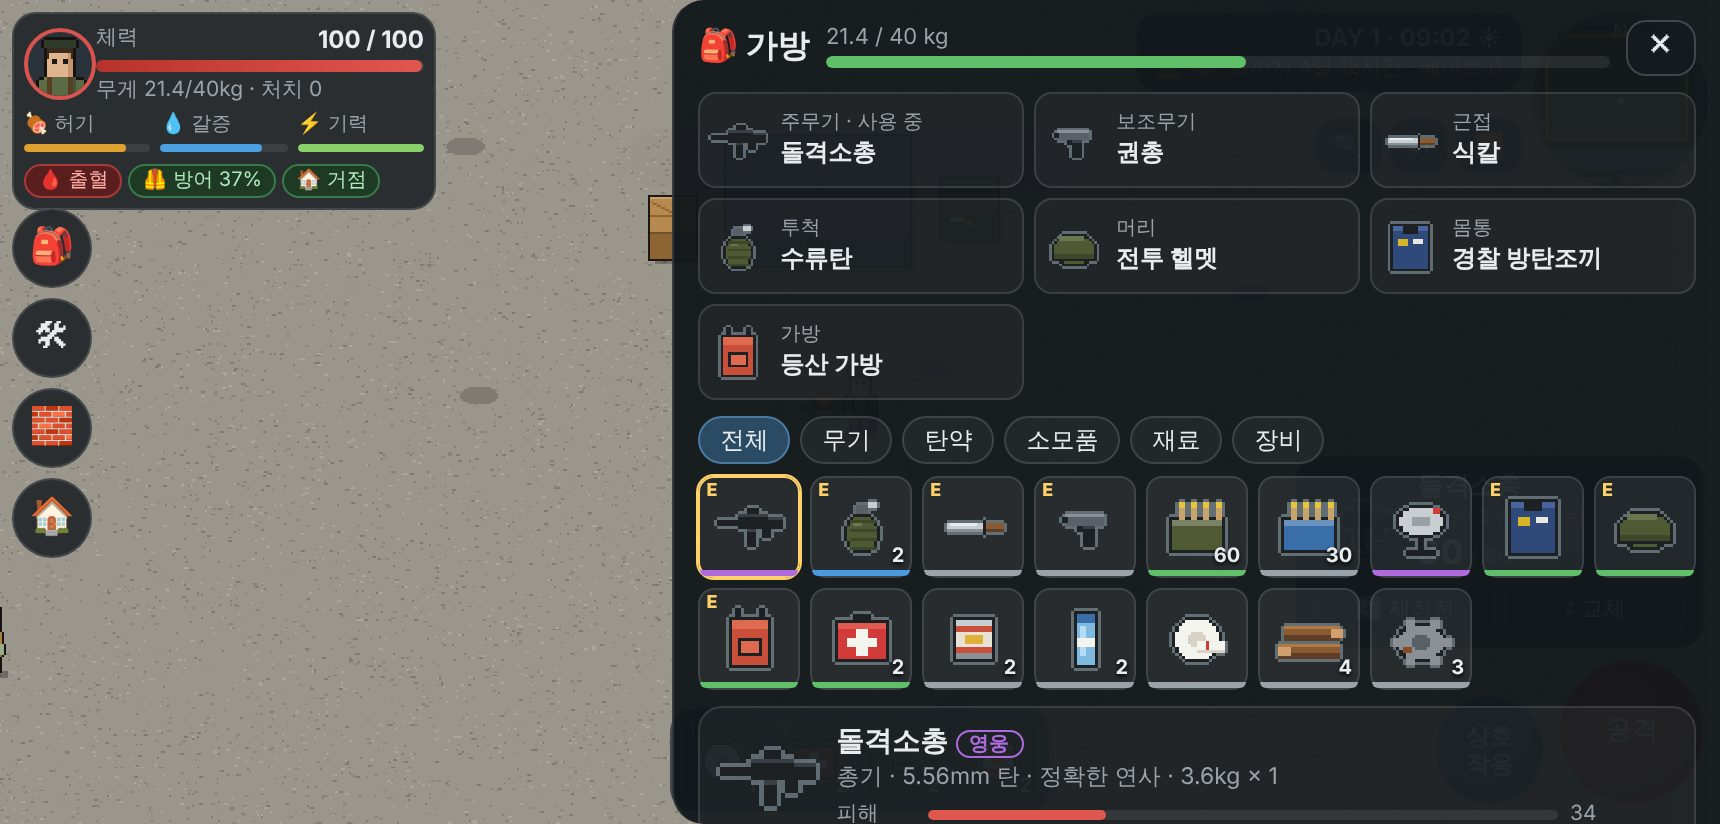
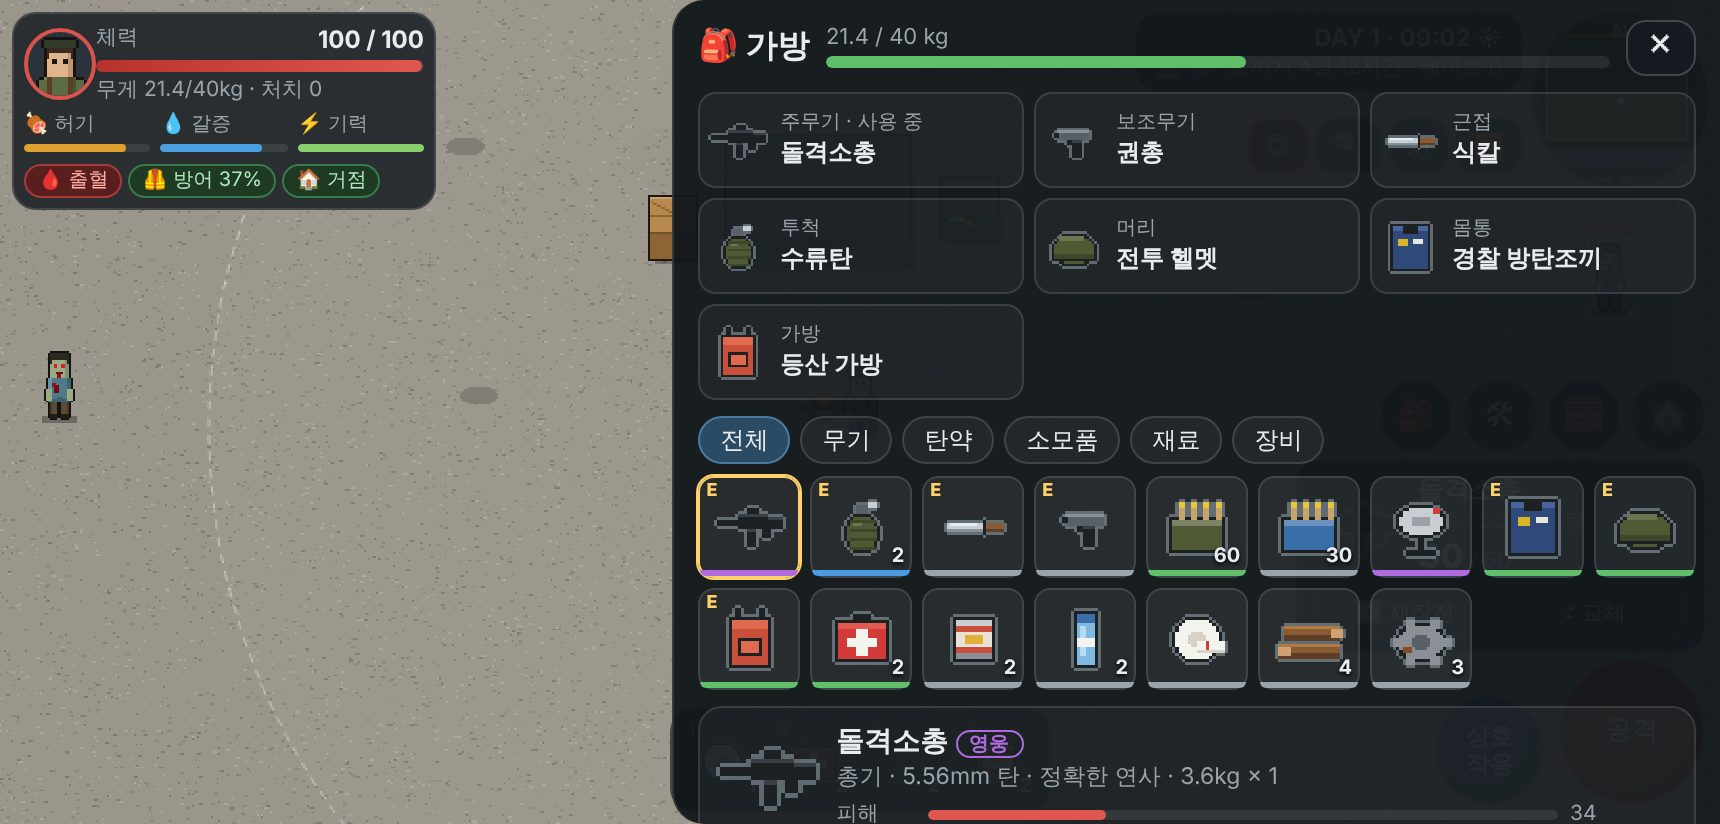
Move the toolbar (bag, craft, barricade, base) above the weapon card
Claude-Session: https://claude.ai/code/session_016VCq735jNXUkDd6pcyUyiK

Changed region(s): [[0.0, 0.2427, 0.0616, 0.6978]]

diff --git a/index.html b/index.html
@@ -17,15 +17,15 @@ canvas#c{position:fixed;inset:0;width:100%;height:100%}
 #top{display:flex;gap:4px}#top button{padding:5px 8px;font-size:12px}#rng.on{background:#4a2a24;border-color:#ff6a5a88}
 button{font:inherit;color:var(--fg);background:var(--pn);border:1px solid #fff3;border-radius:10px;padding:8px 10px}
 button:disabled{opacity:.45}
-#sd{position:fixed;left:6px;bottom:calc(env(safe-area-inset-bottom,0px) + 150px);display:flex;flex-direction:column;gap:7px}.rb{width:44px;height:44px;border-radius:50%;padding:0;font-size:20px;display:grid;place-items:center}
-#wc{position:fixed;right:8px;bottom:calc(env(safe-area-inset-bottom,0px) + 96px);width:min(48vw,196px);padding:6px 8px;display:grid;grid-template-columns:44px 1fr;gap:3px 8px;align-items:center}
+#rc{position:fixed;right:8px;bottom:calc(env(safe-area-inset-bottom,0px) + 96px);display:flex;flex-direction:column;align-items:flex-end;gap:6px}#sd{display:flex;flex-direction:row;gap:6px}.rb{width:44px;height:44px;border-radius:50%;padding:0;font-size:20px;display:grid;place-items:center}
+#wc{width:min(48vw,196px);padding:6px 8px;display:grid;grid-template-columns:44px 1fr;gap:3px 8px;align-items:center}
 #wc .wi{width:44px;height:44px;image-rendering:pixelated;grid-row:1;font-size:28px;text-align:center;line-height:44px}#wc .wn{font-weight:700;font-size:13px}#wc .wr{font-size:10.5px}#wc .am{font-size:17px;font-weight:800}#wc .am small{font-size:11px;color:var(--mut);font-weight:500}
 #wc .wb{grid-column:1/3;display:flex;gap:4px}#wc .wb span{flex:1;text-align:center;font-size:11px;padding:4px;border-radius:8px;background:#ffffff10;border:1px solid #ffffff22}
 #qk{position:fixed;left:6px;bottom:calc(env(safe-area-inset-bottom,0px) + 8px);display:flex;gap:4px;padding:4px}
 .qs{width:40px;height:40px;border-radius:9px;background:#ffffff0e;border:1px solid #ffffff22;position:relative;display:grid;place-items:center}.qs img{width:30px;height:30px;image-rendering:pixelated}.qs.off img{opacity:.3}.qs .k{position:absolute;left:3px;top:0;font-size:9px;color:var(--mut)}.qs .c{position:absolute;right:3px;bottom:0;font-size:10px;font-weight:700}
 #r{position:fixed;right:8px;bottom:calc(env(safe-area-inset-bottom,0px) + 10px);display:flex;gap:8px;align-items:flex-end}
 .big{width:74px;height:74px;border-radius:50%;font-weight:700;padding:0}#atk{background:radial-gradient(circle at 40% 35%,#c0443e,#7a1e1a);width:80px;height:80px}#act{background:radial-gradient(circle at 40% 35%,#3a6a8a,#1e3a4e);width:60px;height:60px;font-size:12px;line-height:1.15}
-#msg{position:fixed;left:50%;transform:translateX(-50%);top:calc(env(safe-area-inset-top,0px) + 150px);padding:6px 14px;border-radius:99px;opacity:0;transition:opacity .4s;text-align:center;max-width:86%;pointer-events:none;font-size:12.5px}
+#msg{position:fixed;left:50%;transform:translateX(-50%);top:calc(env(safe-area-inset-top,0px) + 196px);padding:6px 14px;border-radius:99px;opacity:0;transition:opacity .4s;text-align:center;max-width:86%;pointer-events:none;font-size:12.5px}
 #pr{position:fixed;transform:translate(-50%,-100%);padding:3px 9px;font-size:11.5px;border-radius:8px;white-space:nowrap;border-color:#ffd36a66;pointer-events:none}#pr b{color:#ffd36a}
 #jb{position:fixed;width:100px;height:100px;border:2px solid #fff4;border-radius:50%;display:none;margin:-50px 0 0 -50px;pointer-events:none}#jk{position:absolute;left:30px;top:30px;width:40px;height:40px;border-radius:50%;background:#fff6}
 /* bag sheet */
@@ -53,10 +53,9 @@ button:disabled{opacity:.45}
  #tr{right:max(6px,env(safe-area-inset-right,0px));display:grid;grid-template-columns:auto auto;grid-template-areas:"tp mm" "top mm";gap:5px;align-items:start;justify-items:end}
  #mmw{grid-area:mm;width:84px;height:84px}#tp{grid-area:tp}#top{grid-area:top}
  #msg{top:calc(env(safe-area-inset-top,0px) + 64px);max-width:calc(100vw - 520px);min-width:200px}
- #sd{left:max(6px,env(safe-area-inset-left,0px));top:calc(env(safe-area-inset-top,0px) + 126px);bottom:auto;flex-direction:column;gap:6px}
  .rb{width:40px;height:40px;font-size:18px}
  #qk{left:50%;transform:translateX(-50%);bottom:calc(env(safe-area-inset-bottom,0px) + 6px)}
- #wc{right:max(8px,env(safe-area-inset-right,0px));bottom:calc(env(safe-area-inset-bottom,0px) + 96px);width:186px}
+ #rc{right:max(8px,env(safe-area-inset-right,0px))}#wc{width:186px}
  #r{right:max(8px,env(safe-area-inset-right,0px))}
  #bm{left:auto;right:0;top:0;bottom:0;width:min(500px,58vw);max-height:none;border-radius:16px 0 0 16px;border-top:0;border-left:1px solid #fff2;padding:10px 12px calc(env(safe-area-inset-bottom,0px) + 10px) 12px}
  #bm .eq{grid-template-columns:repeat(auto-fill,minmax(140px,1fr))}
@@ -64,8 +63,7 @@ button:disabled{opacity:.45}
 }
 @media (orientation:landscape) and (max-height:420px){
  #st{grid-template-columns:32px 1fr;padding:5px;gap:4px;width:200px}#st .av{width:32px;height:32px}
- #wc{bottom:calc(env(safe-area-inset-bottom,0px) + 88px)}.big{width:66px;height:66px}#atk{width:72px;height:72px}#act{width:54px;height:54px}
- #sd{top:calc(env(safe-area-inset-top,0px) + 104px);gap:5px}
+ #rc{bottom:calc(env(safe-area-inset-bottom,0px) + 86px);gap:4px}.rb{width:36px;height:36px;font-size:16px}.big{width:66px;height:66px}#atk{width:72px;height:72px}#act{width:54px;height:54px}
 }
 @media (orientation:portrait) and (max-width:390px){#st{width:44vw}#tp{max-width:150px;font-size:10px}#tp b{font-size:11px}#mmw{width:84px;height:84px}}
 @media (orientation:landscape) and (max-width:700px){#tp .w{display:none}#msg{max-width:60vw;top:auto;bottom:calc(env(safe-area-inset-bottom,0px) + 110px)}}
@@ -74,8 +72,8 @@ button:disabled{opacity:.45}
 <div id="st" class="g"></div><div id="dg" class="g" style="display:none"></div>
 <div id="tr"><div id="mmw" style="display:none"><canvas id="mm2" width="96" height="96"></canvas><span class="n">N</span></div><div id="tp" class="g"></div><div id="top"><button id="rng" class="on" title="공격 사거리 (V)">◎</button><button id="zm">🔍</button><button id="spd">x1</button><button id="skp">⏩</button></div></div>
 <div id="msg" class="g"></div><div id="pr" class="g" style="display:none"></div><div id="jb"><div id="jk"></div></div>
-<div id="sd"><button class="g rb" id="bBag" title="가방 (I)">🎒</button><button class="g rb" id="cCr" title="제작 (C)">🛠</button><button class="g rb" id="bBd" title="바리케이드 (F)">🧱</button><button class="g rb" id="bse" style="display:none" title="거점 (B)">🏠</button></div>
-<div id="wc" class="g"></div><div id="qk" class="g"></div>
+
+<div id="rc"><div id="sd"><button class="g rb" id="bBag" title="가방 (I)">🎒</button><button class="g rb" id="cCr" title="제작 (C)">🛠</button><button class="g rb" id="bBd" title="바리케이드 (F)">🧱</button><button class="g rb" id="bse" style="display:none" title="거점 (B)">🏠</button></div><div id="wc" class="g"></div></div><div id="qk" class="g"></div>
 <div id="r"><button class="big" id="act">상호<br>작용</button><button class="big" id="atk">공격</button></div>
 <div id="bm"></div>
 <div id="menu"><h1>PROJECT LEGACY</h1><small>고해상도 탑다운 좀비 생존 RPG<br>왼쪽 화면 드래그: 이동 · 건물에 들어가면 지붕이 열립니다<br>거점을 업그레이드하며 살아남으세요</small>

diff --git a/tools/test_layout.js b/tools/test_layout.js
@@ -8,7 +8,7 @@ for(const[name,w,h]of SIZES){const p=await b.newPage({viewport:{width:w,height:h
  await p.evaluate(()=>{localStorage.clear();start('S',false);const P=S.p;give({ar:1,a556:60,pistol:1,a9mm:30,antenna:1,medkit:2,grenade:2,vest:1,helmet:1,bag2:1});P.quick=['bandage','medkit','grenade','food'];P.as='prim';P.mag.ar=30;P.bleed=1;
   const o=W0.objs.find(o=>o.t=='crate'&&o.b==W0.b.findIndex(b=>b.kind=='base'))||W0.objs.find(o=>LOOTT[o.t]);});
  await p.waitForTimeout(3200);
- const ov=await p.evaluate(()=>{const ids=['st','dg','tr','sd','wc','qk','r'];const rs=ids.map(id=>{const e=document.getElementById(id);if(!e||getComputedStyle(e).display=='none')return null;const r=e.getBoundingClientRect();return r.width&&r.height?{id,x:r.left,y:r.top,w:r.width,h:r.height}:null}).filter(Boolean);
+ const ov=await p.evaluate(()=>{const ids=['st','dg','tr','rc','qk','r'];const rs=ids.map(id=>{const e=document.getElementById(id);if(!e||getComputedStyle(e).display=='none')return null;const r=e.getBoundingClientRect();return r.width&&r.height?{id,x:r.left,y:r.top,w:r.width,h:r.height}:null}).filter(Boolean);
   const bad=[];for(let i=0;i<rs.length;i++)for(let j=i+1;j<rs.length;j++){const a=rs[i],c=rs[j];const ox=Math.min(a.x+a.w,c.x+c.w)-Math.max(a.x,c.x),oy=Math.min(a.y+a.h,c.y+c.h)-Math.max(a.y,c.y);if(ox>2&&oy>2)bad.push(a.id+'×'+c.id+' '+Math.round(ox)+'x'+Math.round(oy))}
   const off=rs.filter(r=>r.x<-1||r.y<-1||r.x+r.w>innerWidth+1||r.y+r.h>innerHeight+1).map(r=>r.id);
   const hud=rs.reduce((a,r)=>a+r.w*r.h,0)/(innerWidth*innerHeight);return{bad,off,hudCover:Math.round(hud*100)+'%'}});

diff --git a/layout-compare.html b/layout-compare.html
@@ -39,7 +39,7 @@ table{width:100%;border-collapse:collapse;font-size:13px}th,td{text-align:left;p
    <tr><td>상태창 (체력·허기·갈증·기력)</td><td>왼쪽 위</td><td>왼쪽 위 (작은 화면은 더 작게)</td></tr>
    <tr><td>미니맵 · 시간 · 웨이브</td><td>오른쪽 위에 세로로</td><td>오른쪽 위에 가로로 나란히</td></tr>
    <tr><td>건물 위험도</td><td>상태창 아래</td><td>상태창 오른쪽</td></tr>
-   <tr><td>가방 · 제작 · 바리케이드 · 거점 버튼</td><td>왼쪽 아래</td><td>상태창 아래 왼쪽 세로 줄</td></tr>
+   <tr><td>가방 · 제작 · 바리케이드 · 거점 툴바</td><td>무기 카드 바로 위</td><td>무기 카드 바로 위</td></tr>
    <tr><td>퀵슬롯</td><td>왼쪽 아래</td><td>아래 가운데</td></tr>
    <tr><td>무기 카드 · 공격 · 상호작용</td><td>오른쪽 아래</td><td>오른쪽 아래</td></tr>
    <tr><td>가방 · 제작 · 거점 창</td><td>아래에서 올라옴</td><td>오른쪽 절반 패널</td></tr>
